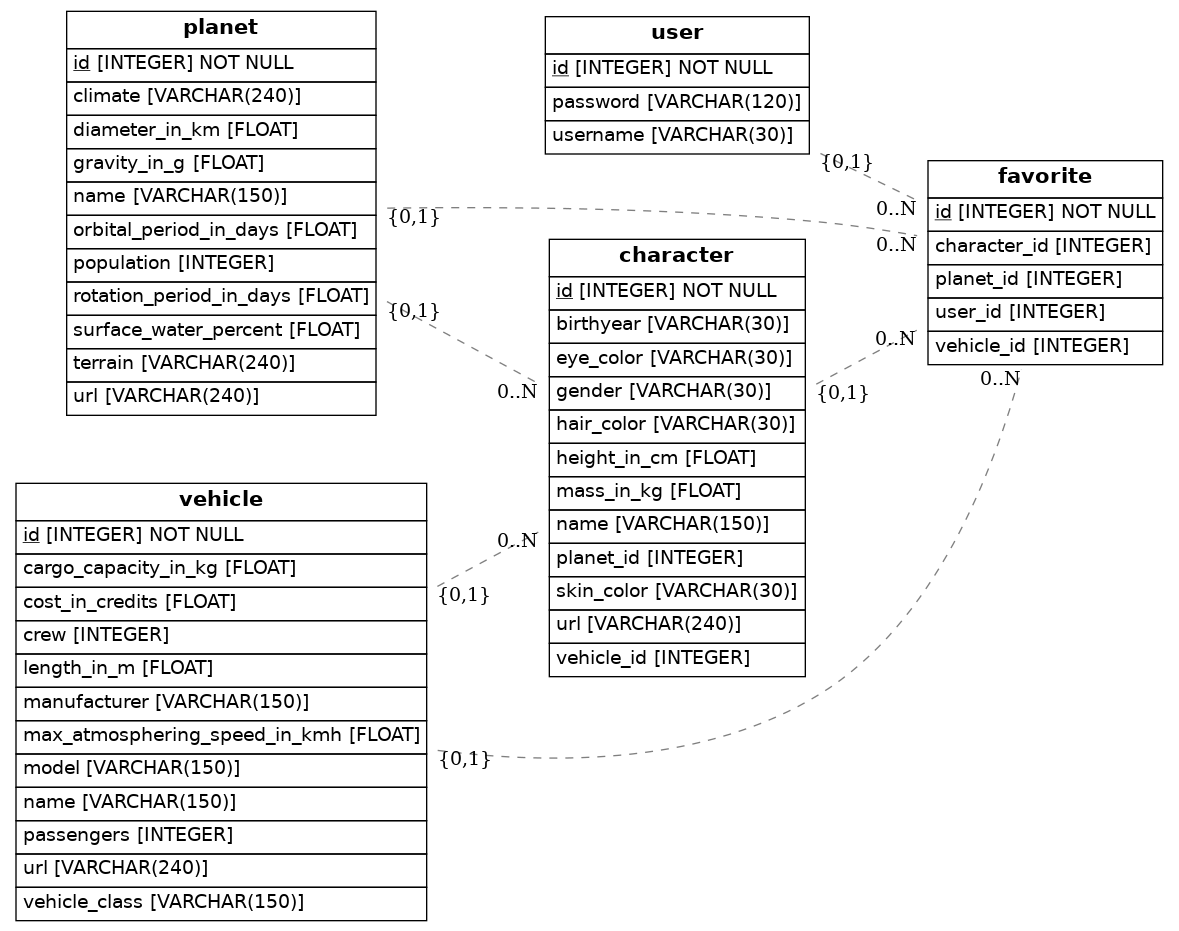
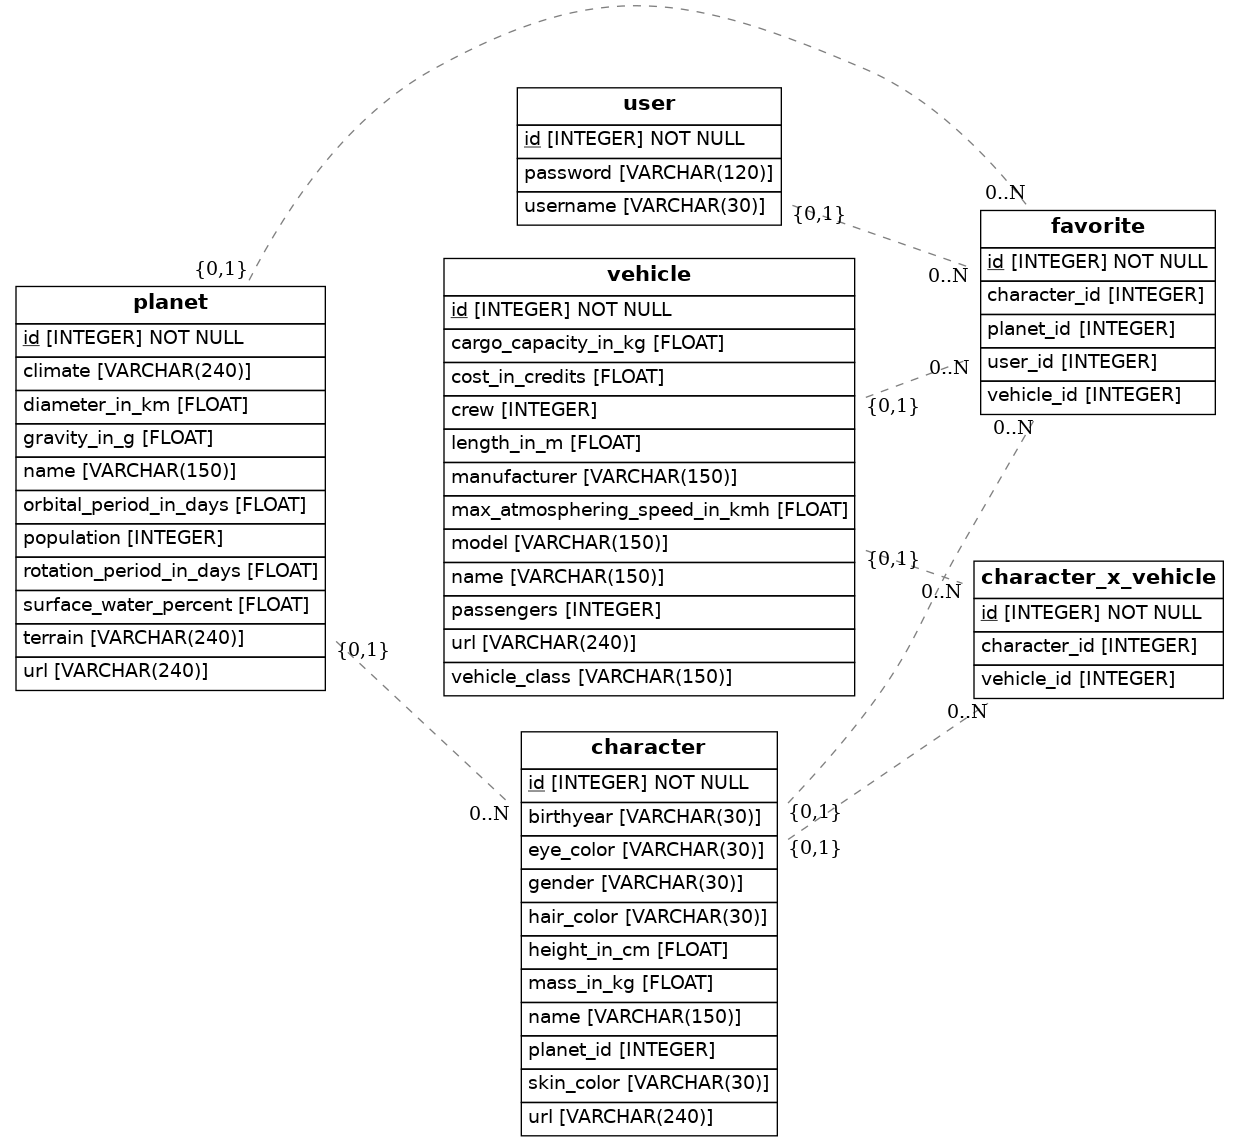
aux table character_vehicle added for many-to-many relationship

diff --git a/src/models.py b/src/models.py
@@ -57,6 +57,12 @@ class Character(Base):
     gender = Column(String(30))
     planet_id = Column(Integer, ForeignKey('planet.id'))
     planet = relationship(Planet)
+
+class Character_X_Vehicle(Base):
+    __tablename__ = 'character_x_vehicle'
+    id = Column(Integer, primary_key=True)
+    character_id = Column(Integer, ForeignKey('character.id'))
+    character = relationship(Character)
     vehicle_id = Column(Integer, ForeignKey('vehicle.id'))
     vehicle = relationship(Vehicle)
 
